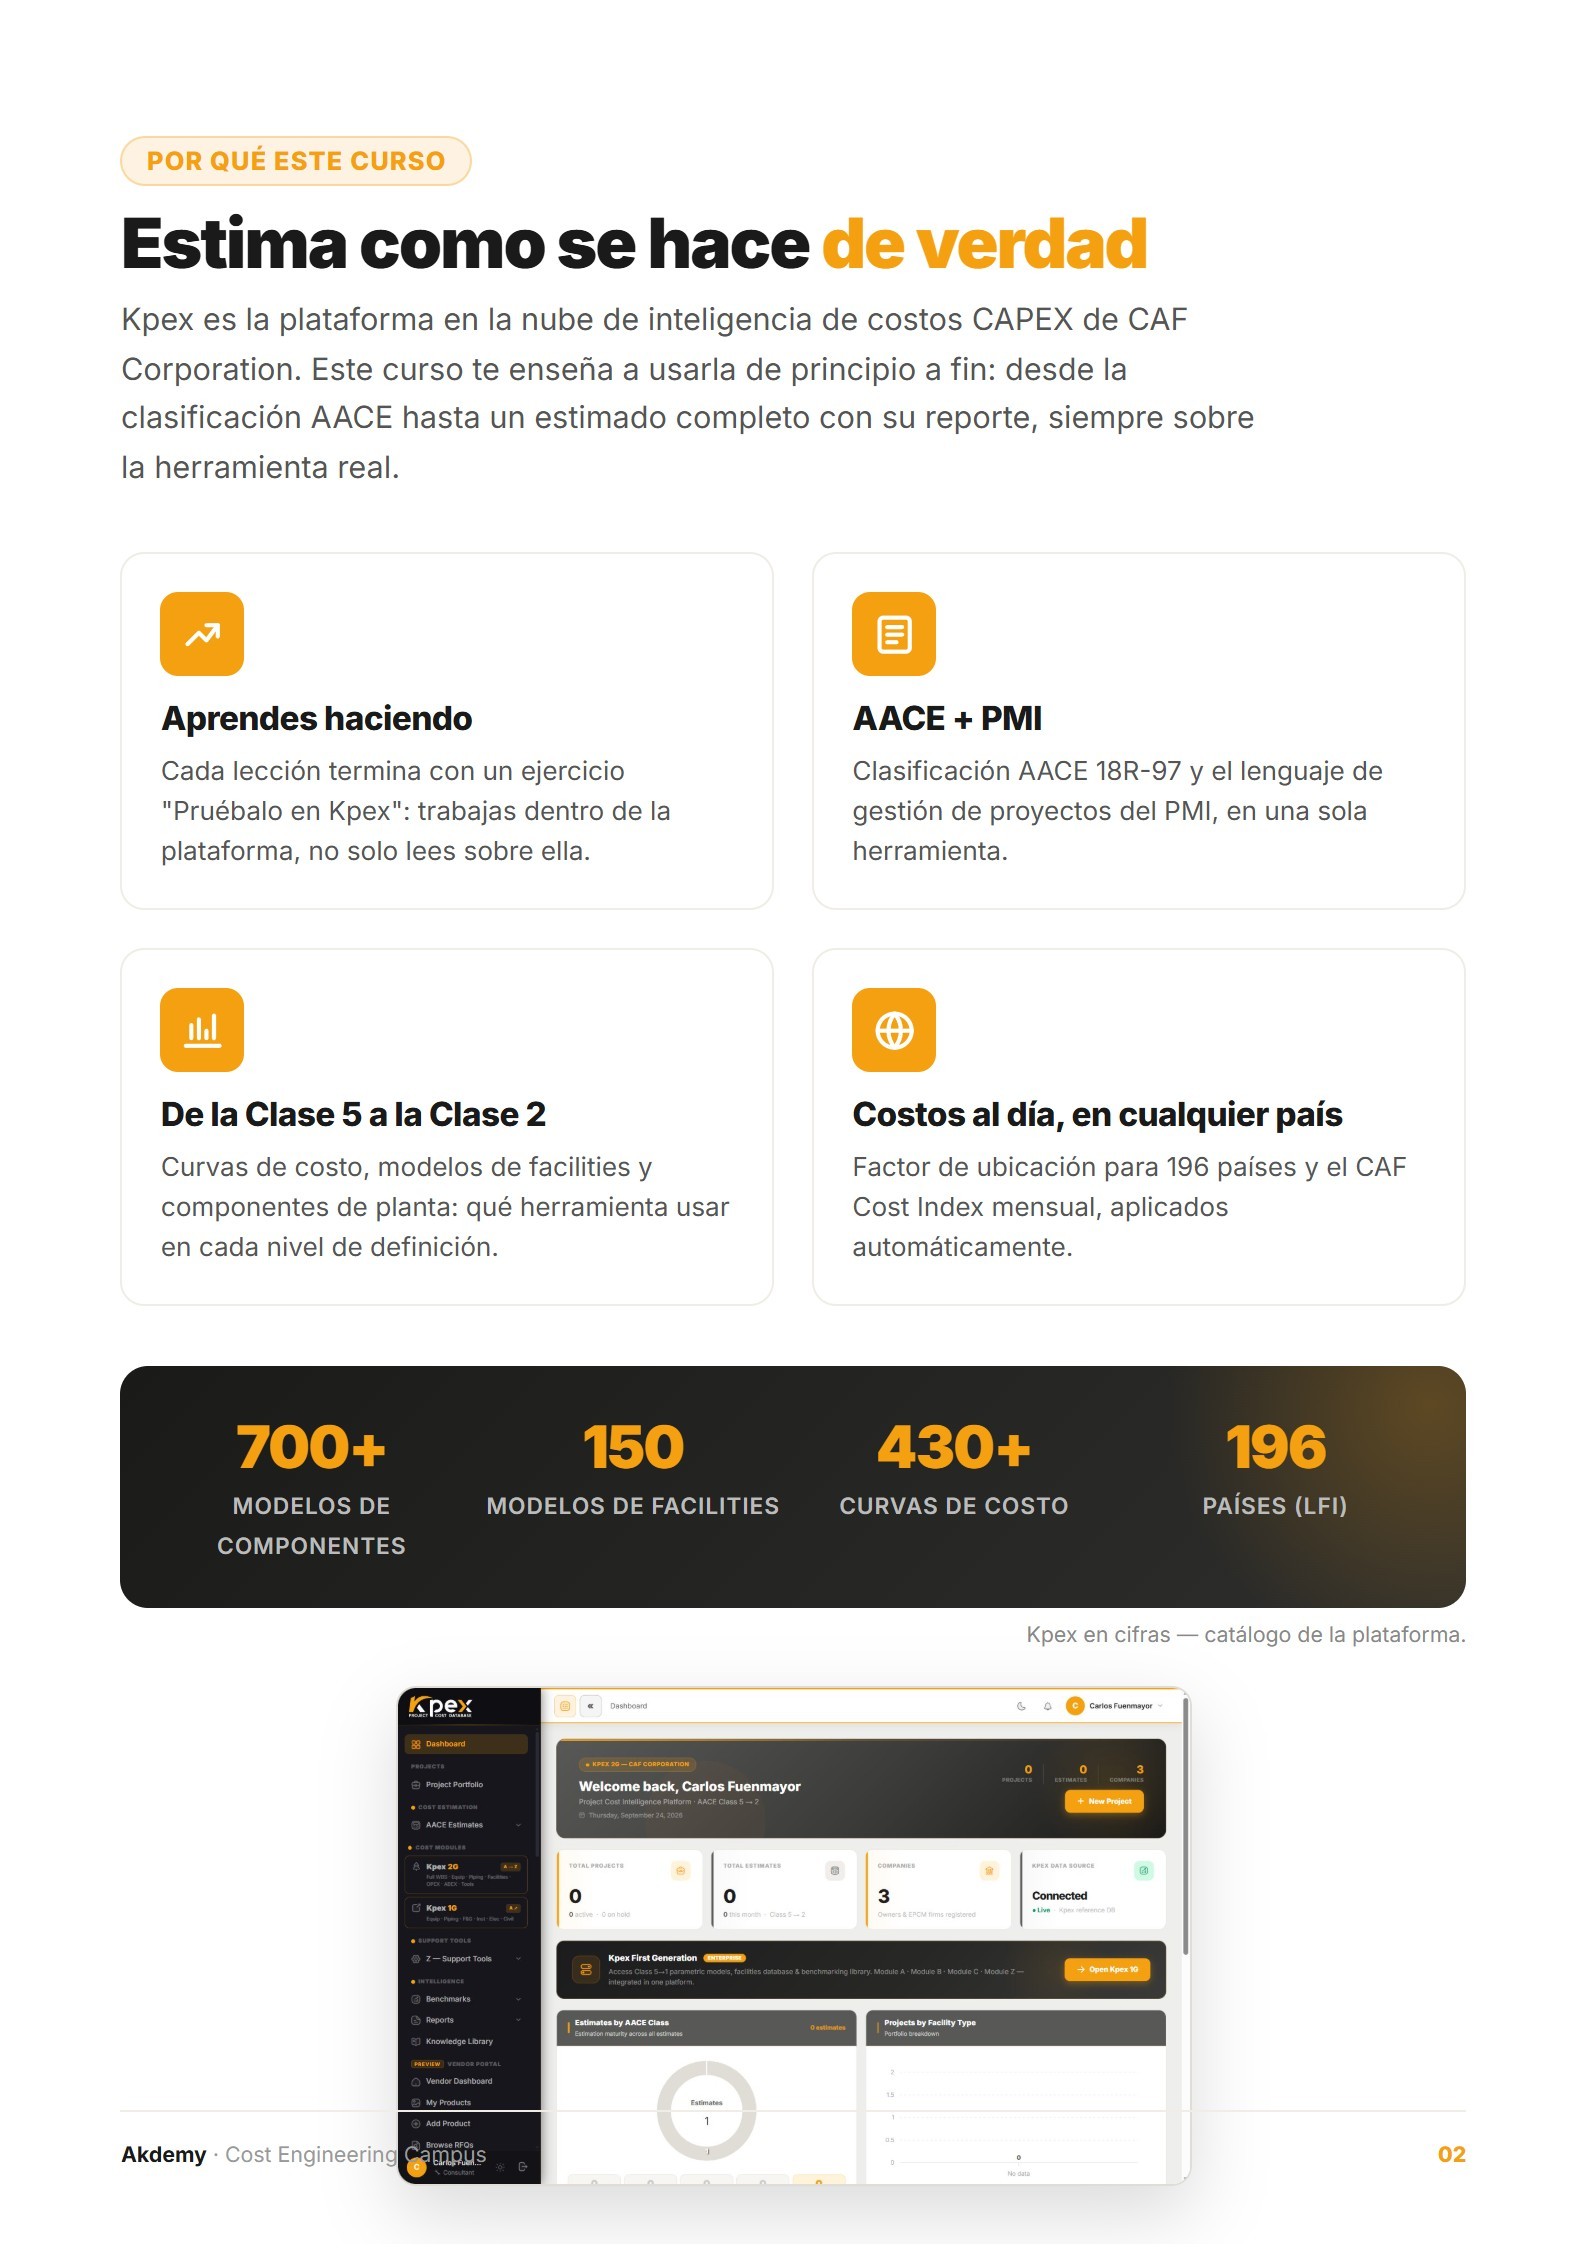
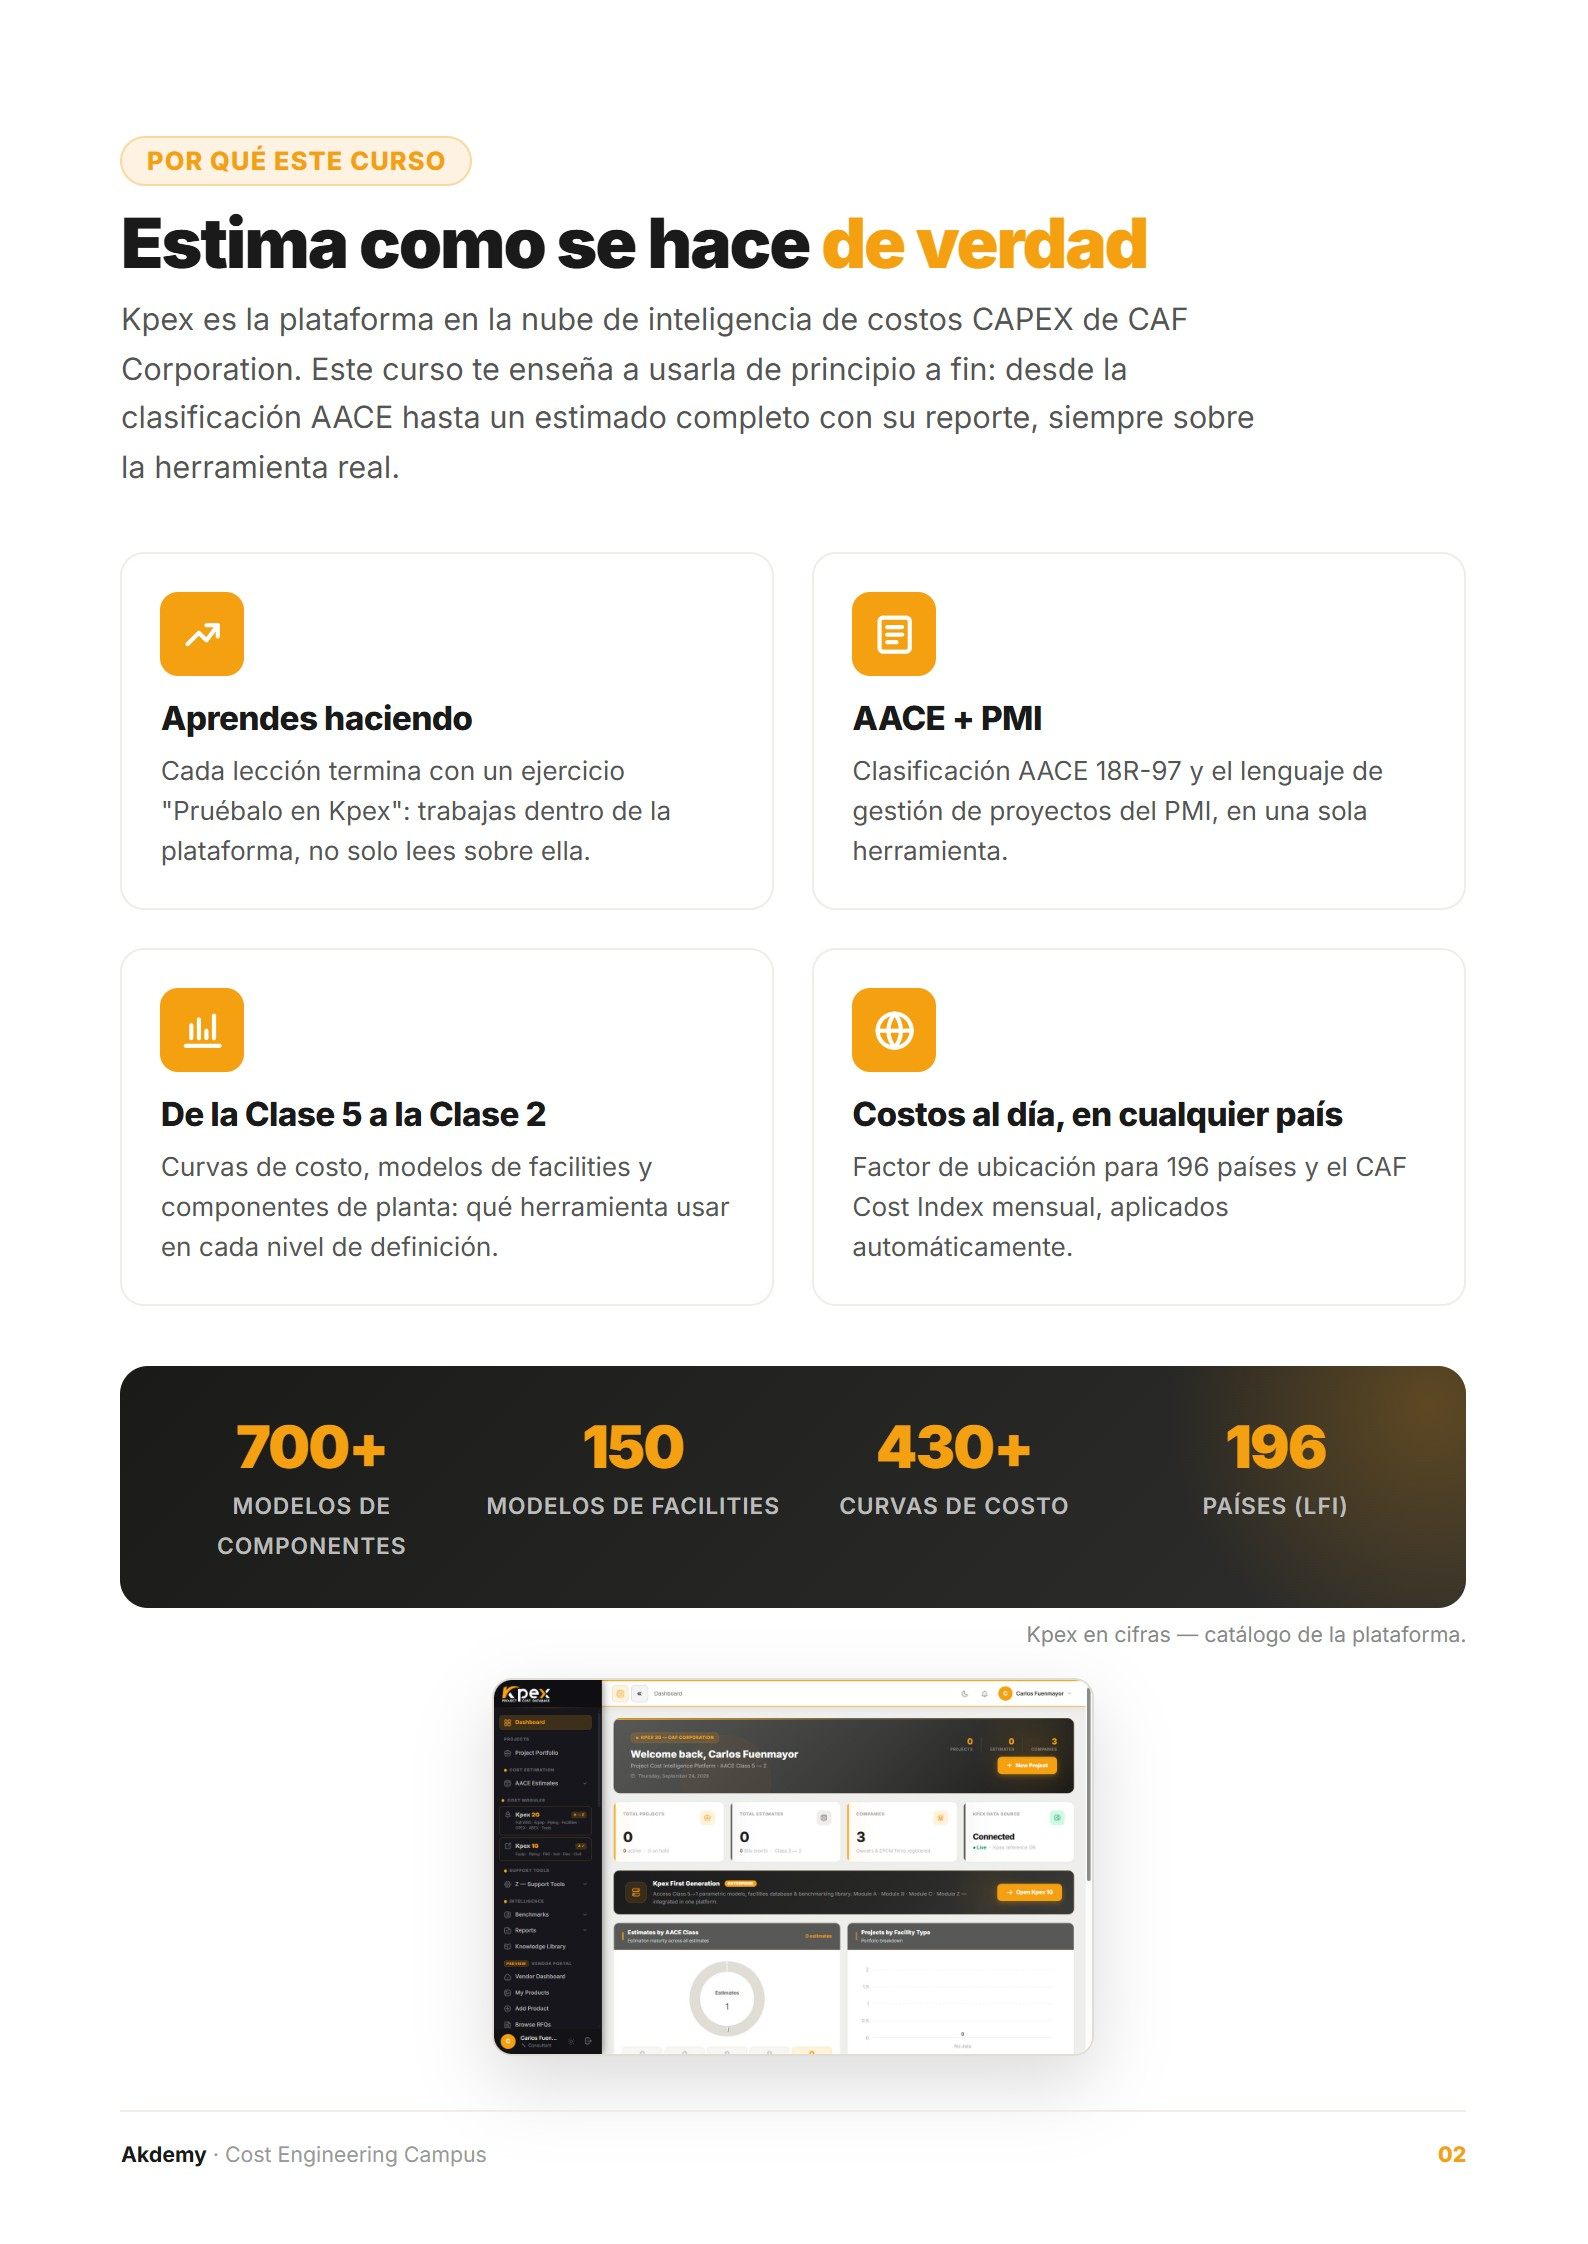
Brochure pág.2: baja la captura del dashboard para no tocar el pie
La captura (66mm) se solapaba ~10mm con el pie de página. Medido con
Chrome headless; ahora 50mm + 4mm de margen → ~7mm de holgura sobre el
pie. Regenera las imágenes de carrusel afectadas.

Changed region(s): [[0.2469, 0.7487, 0.7714, 0.9982]]

diff --git a/marketing/brochure/brochure.html b/marketing/brochure/brochure.html
@@ -189,7 +189,7 @@
   <div class="grid2" data-h="whyCards"></div>
   <div class="numbers" data-h="numbers"></div>
   <p class="numbers-cap" data-t="numbersCap"></p>
-  <div style="margin-top:5mm;text-align:center"><img class="shot" src="img/shot-dashboard.jpg" alt="Kpex dashboard" style="width:auto;max-width:100%;max-height:66mm;margin:0 auto"></div>
+  <div style="margin-top:4mm;text-align:center"><img class="shot" src="img/shot-dashboard.jpg" alt="Kpex dashboard" style="width:auto;max-width:100%;max-height:50mm;margin:0 auto"></div>
   <div class="foot"><span><b>Akdemy</b> · Cost Engineering Campus</span><span class="pg">02</span></div>
 </section>
 
